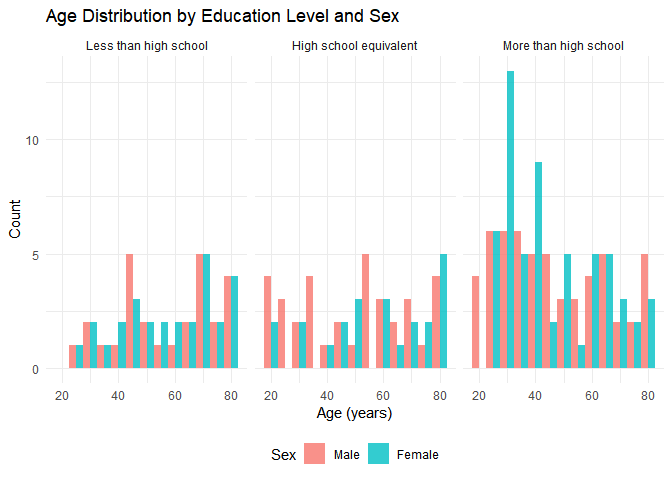
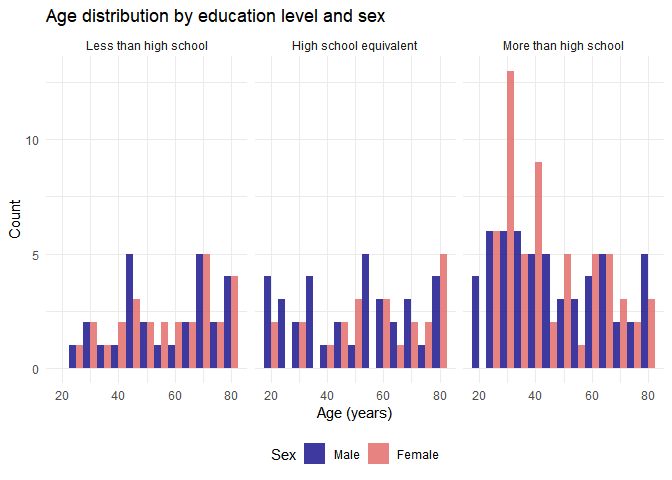
Made formatting changes, so that tables knit neater, graphs are colour-blind friendly, and readable (lost marks last homework assignment for formatting issues)

diff --git a/p8105_hw3_as7923.md b/p8105_hw3_as7923.md
@@ -80,17 +80,23 @@ aisle_counts = instacart %>%
   summarize(no_of_items = n()) %>%  # counting no. of items ordered for each aisle
   arrange(desc(no_of_items)) # descending order to find top aisles
 
-head(aisle_counts, 5) # displaying top 5 aisles
+# Displaying top 5 aisles with better formatting
+knitr::kable(
+  head(aisle_counts, 5),
+  col.names = c("Aisle", "Number of items"),
+  caption = "Top 5 most ordered from aisles"
+)
 ```
 
-    ## # A tibble: 5 × 2
-    ##   aisle                      no_of_items
-    ##   <chr>                            <int>
-    ## 1 fresh vegetables                150609
-    ## 2 fresh fruits                    150473
-    ## 3 packaged vegetables fruits       78493
-    ## 4 yogurt                           55240
-    ## 5 packaged cheese                  41699
+| Aisle                      | Number of items |
+|:---------------------------|----------------:|
+| fresh vegetables           |          150609 |
+| fresh fruits               |          150473 |
+| packaged vegetables fruits |           78493 |
+| yogurt                     |           55240 |
+| packaged cheese            |           41699 |
+
+Top 5 most ordered from aisles
 
 There are 134 in total. The top five most ordered from aisles include:
 fresh vegetables, fresh fruits, packaged vegetables fruit, yogurt, and
@@ -130,22 +136,27 @@ popular_items = instacart %>%
   top_n(3, no_of_orders) %>% # keeping the top 3 rows with the highest no_of_order values
   arrange(aisle, desc(no_of_orders))
 
-popular_items
+# Displaying the table with better formatting
+knitr::kable(
+  popular_items,
+  col.names = c("Aisle", "Product Name", "Number of Orders"),  # improved column names
+  caption = "Three most popular items in specific aisles"
+)
 ```
 
-    ## # A tibble: 9 × 3
-    ## # Groups:   aisle [3]
-    ##   aisle                      product_name                           no_of_orders
-    ##   <chr>                      <chr>                                         <int>
-    ## 1 baking ingredients         Light Brown Sugar                               499
-    ## 2 baking ingredients         Pure Baking Soda                                387
-    ## 3 baking ingredients         Cane Sugar                                      336
-    ## 4 dog food care              Snack Sticks Chicken & Rice Recipe Do…           30
-    ## 5 dog food care              Organix Chicken & Brown Rice Recipe              28
-    ## 6 dog food care              Small Dog Biscuits                               26
-    ## 7 packaged vegetables fruits Organic Baby Spinach                           9784
-    ## 8 packaged vegetables fruits Organic Raspberries                            5546
-    ## 9 packaged vegetables fruits Organic Blueberries                            4966
+| Aisle | Product Name | Number of Orders |
+|:---|:---|---:|
+| baking ingredients | Light Brown Sugar | 499 |
+| baking ingredients | Pure Baking Soda | 387 |
+| baking ingredients | Cane Sugar | 336 |
+| dog food care | Snack Sticks Chicken & Rice Recipe Dog Treats | 30 |
+| dog food care | Organix Chicken & Brown Rice Recipe | 28 |
+| dog food care | Small Dog Biscuits | 26 |
+| packaged vegetables fruits | Organic Baby Spinach | 9784 |
+| packaged vegetables fruits | Organic Raspberries | 5546 |
+| packaged vegetables fruits | Organic Blueberries | 4966 |
+
+Three most popular items in specific aisles
 
 The table above shows the three most popular items in each of the
 specified aisles. In the baking ingredients aisle, Light Brown Sugar is
@@ -184,14 +195,22 @@ mean_hour_table = instacart %>%
     values_from = mean_hour
   )
 
-mean_hour_table
+# Displaying table with better formatting
+knitr::kable(
+  mean_hour_table,
+  col.names = c("Product name", "Sunday", "Monday", "Tuesday", "Wednesday", 
+                "Thursday", "Friday", "Saturday"),
+  caption = "Mean hour of day for Pink Lady Apples and Coffee Ice Cream orders",
+  digits = 2  # round to 2 decimal places
+)
 ```
 
-    ## # A tibble: 2 × 8
-    ##   product_name     Sunday Monday Tuesday Wednesday Thursday Friday Saturday
-    ##   <chr>             <dbl>  <dbl>   <dbl>     <dbl>    <dbl>  <dbl>    <dbl>
-    ## 1 Coffee Ice Cream   13.8   14.3    15.4      15.3     15.2   12.3     13.8
-    ## 2 Pink Lady Apples   13.4   11.4    11.7      14.2     11.6   12.8     11.9
+| Product name     | Sunday | Monday | Tuesday | Wednesday | Thursday | Friday | Saturday |
+|:-----------------|-------:|-------:|--------:|----------:|---------:|-------:|---------:|
+| Coffee Ice Cream |  13.77 |  14.32 |   15.38 |     15.32 |    15.22 |  12.26 |    13.83 |
+| Pink Lady Apples |  13.44 |  11.36 |   11.70 |     14.25 |    11.55 |  12.78 |    11.94 |
+
+Mean hour of day for Pink Lady Apples and Coffee Ice Cream orders
 
 This table shows the mean hour of the day at which Pink Lady Apples and
 Coffee Ice Cream are ordered for each day of the week. Pink Lady Apples
@@ -244,7 +263,7 @@ no_fewer_than_10 = sum(zip_observations$no_of_observations < 10)
 ggplot(zip_observations, aes(x = no_of_observations)) +
   geom_histogram(binwidth = 5, fill = "lightblue", color = "black") +
   labs(
-    title = "Distribution of observations per ZIP Code",
+    title = "Distribution of observations per ZIP code",
     x = "No. of observations",
     y = "No. of ZIP Codes"
   ) 
@@ -363,7 +382,7 @@ box_plots = ggplot(zip_2023_avg, aes(x = county, y = avg_rental_price, fill = co
   labs(
     title = "Distribution of ZIP code level rental prices by borough (2023)",
     x = "Borough",
-    y = "Average Rental Price ($)",
+    y = "Average rental price ($)",
     caption = "Each dot represents one ZIP code's average rental price in 2023."
   ) + 
   theme(legend.position = "none")
@@ -372,12 +391,12 @@ print(box_plots)
 ```
 
 ![](p8105_hw3_as7923_files/figure-gfm/unnamed-chunk-10-1.png)<!-- -->
-The distribution plot illustrates substantial variation in rental prices
-both between and within boroughs. New York shows the highest median
-rental price and the widest range, with some ZIP codes exceeding \$6,000
-per month. Kings displays significant variation with several high-priced
+The plots above illustrate substantial variation in rental prices both
+between and within boroughs. New York shows the highest median rental
+price and the widest range, with some ZIP codes exceeding \$6,000 per
+month. Kings displays significant variation with several higher-priced
 outlier ZIP codes comparable to New York prices. Queens shows a more
-compressed distribution with moderate prices and fewer extreme outliers.
+compressed distribution with moderate prices and few extreme outliers.
 The Bronx has a more concentrated distribution, with most ZIP codes
 clustering around \$2,000-\$2,500. Richmond shows the tightest
 distribution with the least variation between ZIP codes.
@@ -465,13 +484,14 @@ No. of men and women in each education category
 nhanes_data %>%
   ggplot(aes(x = age, fill = sex)) +
   geom_histogram(position = "dodge", binwidth = 5, alpha = 0.8) +
-  facet_wrap(~education) +
+  facet_grid(. ~ education) +
   labs(
-    title = "Age Distribution by Education Level and Sex",
+    title = "Age distribution by education level and sex",
     x = "Age (years)",
     y = "Count",
     fill = "Sex"
-  )
+  )+
+  scale_fill_viridis_d(option = "plasma", end = 0.6)  # added viridis colors
 ```
 
 ![](p8105_hw3_as7923_files/figure-gfm/unnamed-chunk-13-1.png)<!-- -->
@@ -504,7 +524,8 @@ nhanes_total %>%
     x = "Age (years)",
     y = "Total activity (MIMS)",
     color = "Sex"
-  ) 
+  ) +
+  scale_color_viridis_d(option = "plasma", end = 0.6)  # added viridis colors
 ```
 
 ![](p8105_hw3_as7923_files/figure-gfm/unnamed-chunk-14-1.png)<!-- -->
@@ -540,7 +561,7 @@ activity_time_course %>%
   ggplot(aes(x = minute, y = mean_activity, color = sex)) +
   geom_line(linewidth = 0.8, alpha = 0.8) +
   geom_smooth(se = FALSE, linewidth = 1.2) +
-  facet_wrap(~education, ncol = 1) +
+  facet_grid(education ~ ., switch = "y") +  
   labs(
     title = "24-hour activity time course by education level and sex",
     x = "Minute of day (starting at midnight)",
@@ -549,7 +570,8 @@ activity_time_course %>%
   ) +
   scale_x_continuous(breaks = seq(0, 1440, 240),
                      labels = c("0:00", "4:00", "8:00", "12:00", 
-                               "16:00", "20:00", "24:00"))
+                               "16:00", "20:00", "24:00")) +
+  scale_color_viridis_d(option = "plasma", end = 0.6)  # added viridis colors
 ```
 
 ![](p8105_hw3_as7923_files/figure-gfm/unnamed-chunk-15-1.png)<!-- -->
